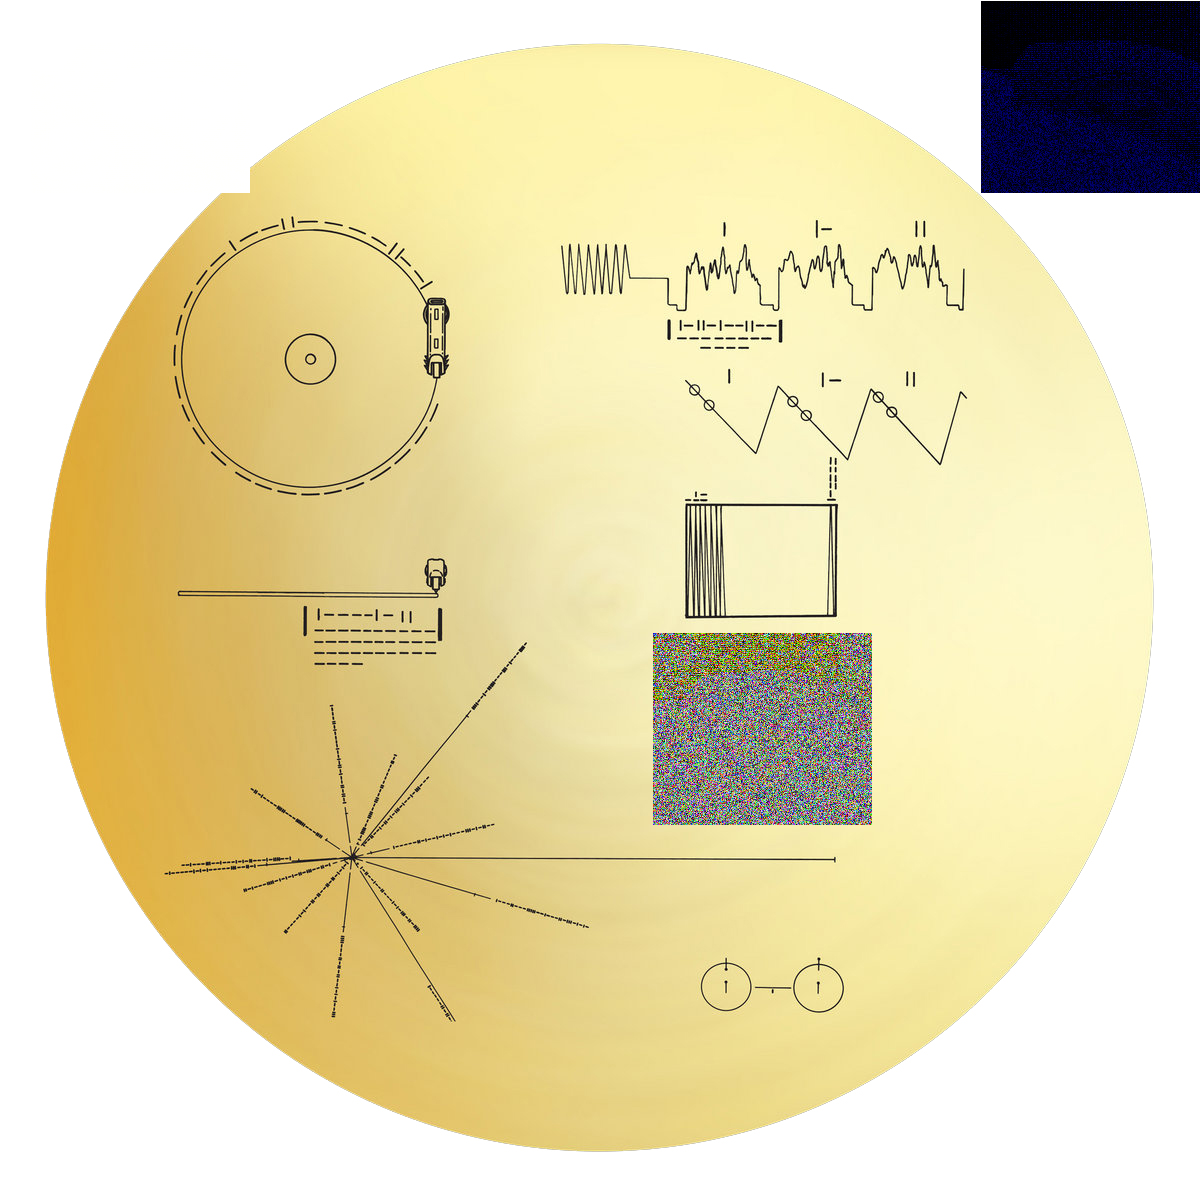
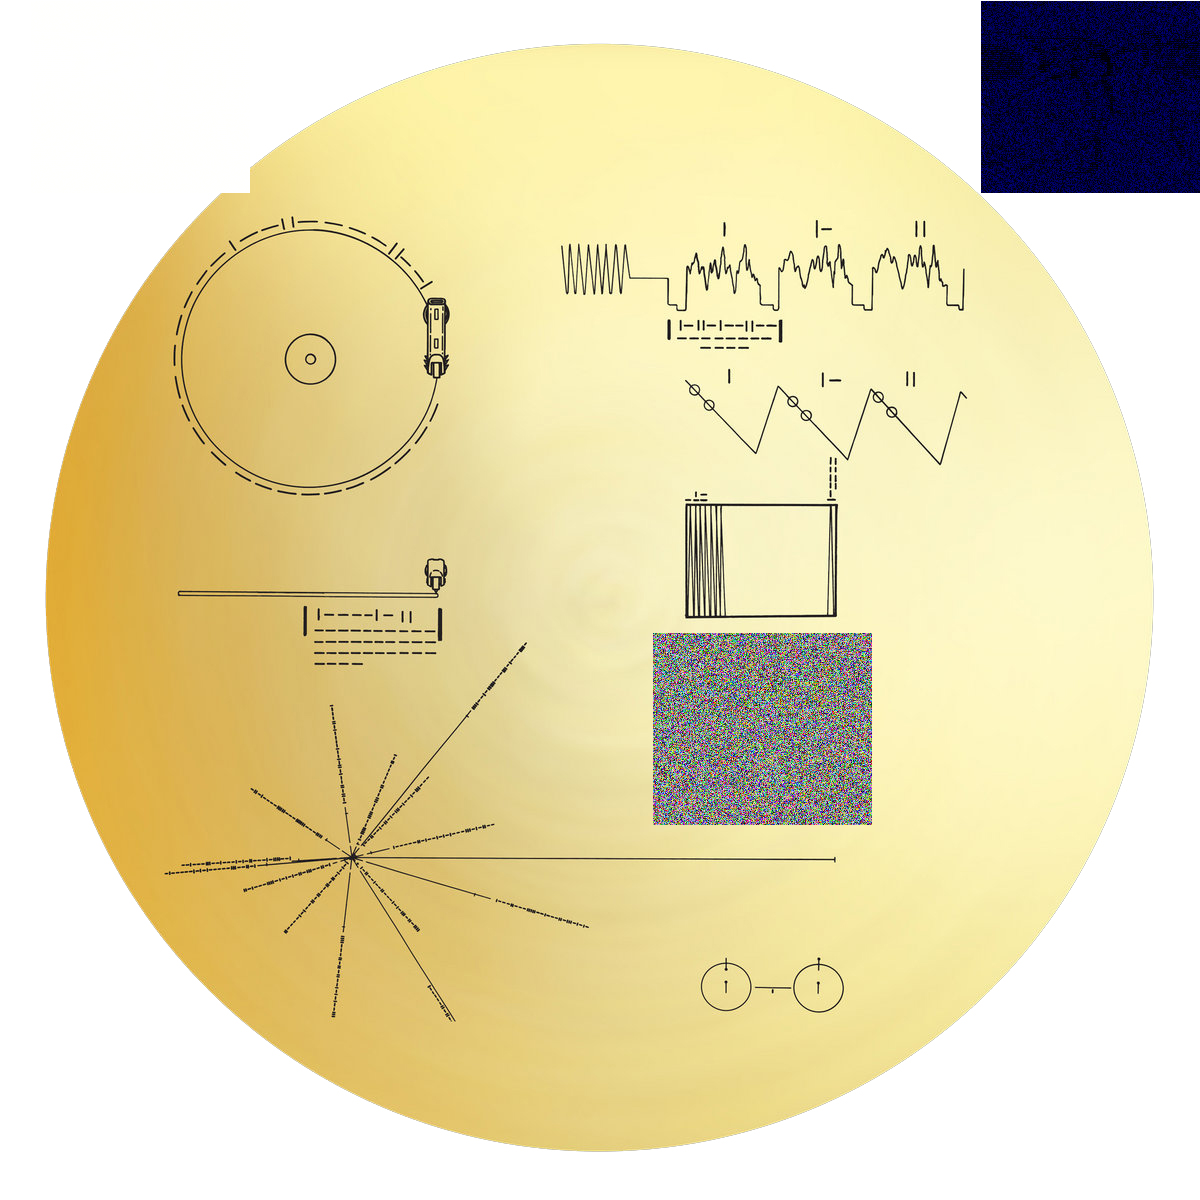
free for any picture with any size

Changed region(s): [[0.5242, 0.5242, 0.74, 0.7092], [0.8017, 0.0, 1.0, 0.185]]

diff --git a/templates/index.html b/templates/index.html
@@ -1,6 +1,6 @@
 <html>
 <head>
-<title>Python Flask Upload and display image</title>
+<title>Voyager Cryptor</title>
 <link rel="stylesheet" href="{{ url_for('static', filename='index.css') }}" />
 <!-- <link rel="stylesheet" href="https://maxcdn.bootstrapcdn.com/bootstrap/3.3.6/css/bootstrap.min.css" />         -->
 <script src="https://ajax.googleapis.com/ajax/libs/jquery/3.1.0/jquery.min.js"></script>

diff --git a/templates/create_account.html b/templates/create_account.html
@@ -2,7 +2,7 @@
 <html>
     <head>
         <meta charset="uft-8" />
-        <title>Create account</title>
+        <title>Voyager Cryptor: Create account</title>
         <link rel="stylesheet" href="{{ url_for('static', filename='create_account_style.css') }}" />
         <script type="text/javascript" src="{{ url_for('static', filename='create_account.js') }}"></script>
     </head>

diff --git a/imgToDat.py b/imgToDat.py
@@ -1,19 +1,23 @@
 import numpy as np
 from PIL import Image
-import math
+# import math
 
 
-def compressedImg(filePath, augment=1):
+def compressedImg(filePath, augment=0):
     img = Image.open(filePath)
-    width, height = img.size
+    # width, height = img.size
 
     # calculate gcd value of image to resize original image
-    gcd_val = math.gcd(width, height)
+    # gcd_val = math.gcd(width, height)
 
-    imgCompressed = img.resize(((width // gcd_val * augment), (height // gcd_val * augment)))
+    # new_wid = width // gcd_val * augment
+    # new_hei = height // gcd_val * augment
+
+    imgCompressed = img.resize((146, 96))
+    # imgCompressed = img.resize((new_wid, new_hei))
     # imgCompressed.save('compressed.png', 'png')
 
-    if augment == 1:
+    if augment == -1:
         return np.array(list(img.getdata())).reshape(-1)
     else:
         return np.array(list(imgCompressed.getdata())).reshape(-1)

diff --git a/app.py b/app.py
@@ -29,7 +29,7 @@ def encrypt_image():
         flash('No picture uploaded')
         return render_template('index.html')
     temp.encrypt_to_disc(UPLOAD_FOLDER + app.config['CURRENT_FILE'], UPLOAD_FOLDER + "converted_disc.png")
-    app.config['CURRENT_FILE'] = ''
+    app.config['CURRENT_FILE'] = "converted_disc.png"
     return render_template('index.html', filename="converted_disc.png")
 
 

diff --git a/imageProcess.py b/imageProcess.py
@@ -59,6 +59,7 @@ class PipeLine:
         Convert the encrypted data into mosaic and embed into the disc
         """
         new_disc = self.disc_data
+        # size_mod = (size[0]%256, size[1]%256, )
         imdata_main = []
         imdata_support = []
         imdata_support2 = []

diff --git a/ellipticCurve.py b/ellipticCurve.py
@@ -158,7 +158,7 @@ def encrypt_to_disk(name):
 
     ECC.get_key()
     # name = input("enter the file path and name: ")
-    plain = imgToDat.compressedImg(name, 2)
+    plain = imgToDat.compressedImg(name)
     return ECC.encrypt2(plain)#, plain
 
 
